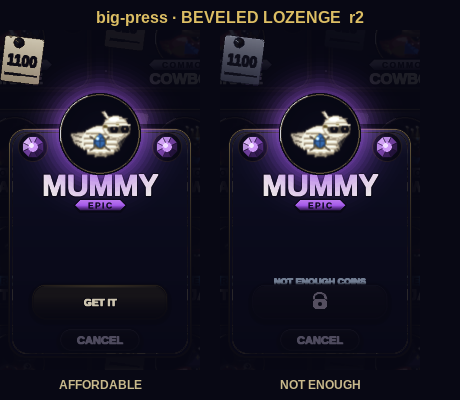
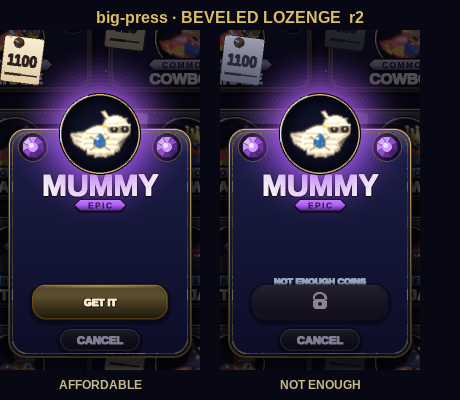
store confirm popup · big-press · round 2 revised (agent update)
Claude-Session: https://claude.ai/code/session_01DaGYw11VdAubog2VGiiucC

diff --git a/tools/_store_confirm_big-press_r2.py b/tools/_store_confirm_big-press_r2.py
@@ -28,8 +28,6 @@ import pygame
 pygame.init()
 pygame.display.set_mode((1, 1), pygame.NOFRAME)
 
-from PIL import Image
-
 import game.store as store_mod
 import game.store_cards as sc
 import game.store_data as sd
@@ -249,26 +247,22 @@ def _render_state(affordable):
 
     POP_W, POP_H = 200, 340
     px, py = (W - POP_W) // 2, (H - POP_H) // 2
-    raw = pygame.image.tostring(screen, "RGBA")
-    full = Image.frombytes("RGBA", (W, H), raw)
-    return full.crop((px, py, px + POP_W, py + POP_H))
-
-
-afford_img   = _render_state(True)
-unafford_img = _render_state(False)
-
-
-def _pil_to_surf(img):
-    return pygame.image.fromstring(img.tobytes(), img.size, "RGBA")
+    # Extract popup region directly as a pygame Surface — avoids the
+    # platform-specific tostring/RGBA channel-order pitfall where the B
+    # component leaks into the alpha slot, collapsing warm-gold fills.
+    return screen.subsurface(pygame.Rect(px, py, POP_W, POP_H)).copy()
 
 
 # ── review sheet ──────────────────────────────────────────────────────────────
+afford_surf   = _render_state(True)
+unafford_surf = _render_state(False)
+
 SHEET_W, SHEET_H = 460, 400
 sheet = pygame.Surface((SHEET_W, SHEET_H))
 sheet.fill((8, 8, 20))
 
-sheet.blit(_pil_to_surf(afford_img),   (0,   30))
-sheet.blit(_pil_to_surf(unafford_img), (220, 30))
+sheet.blit(afford_surf,   (0,   30))
+sheet.blit(unafford_surf, (220, 30))
 
 hdr_font = store_mod._font(16, True)
 hdr = hdr_font.render("big-press · BEVELED LOZENGE  r2", True, (220, 190, 100))
